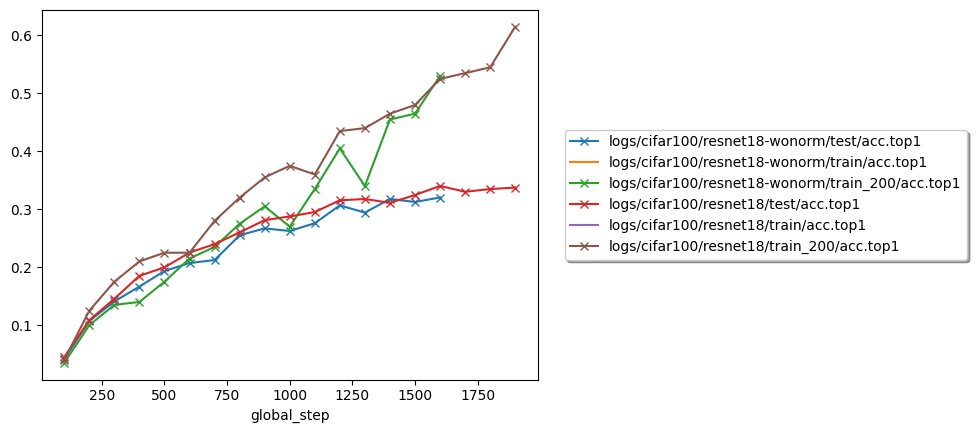
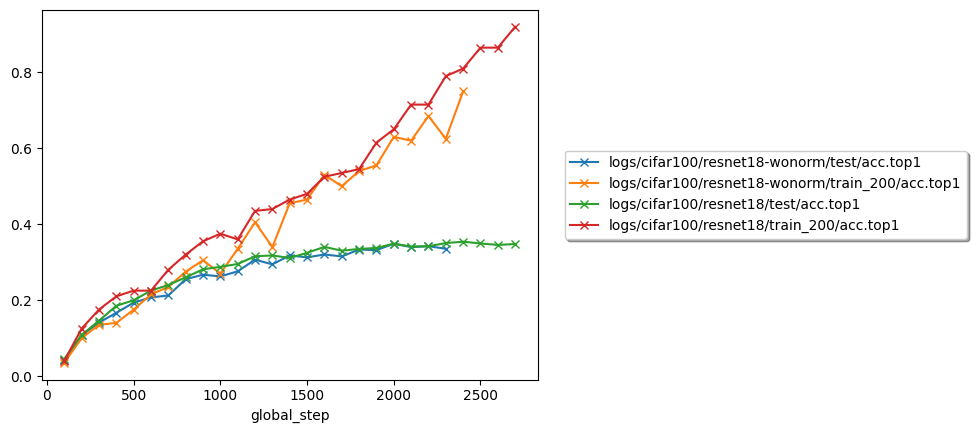
Don't plot nothing

diff --git a/src/plot.py b/src/plot.py
@@ -45,6 +45,9 @@ def plot(paths, args):
         for y in args.ys:
             gdf = gdf.sort_values("global_step")
 
+            if gdf[y].isna().all():
+                continue
+
             gdf.plot(
                 x="global_step",
                 y=y,
